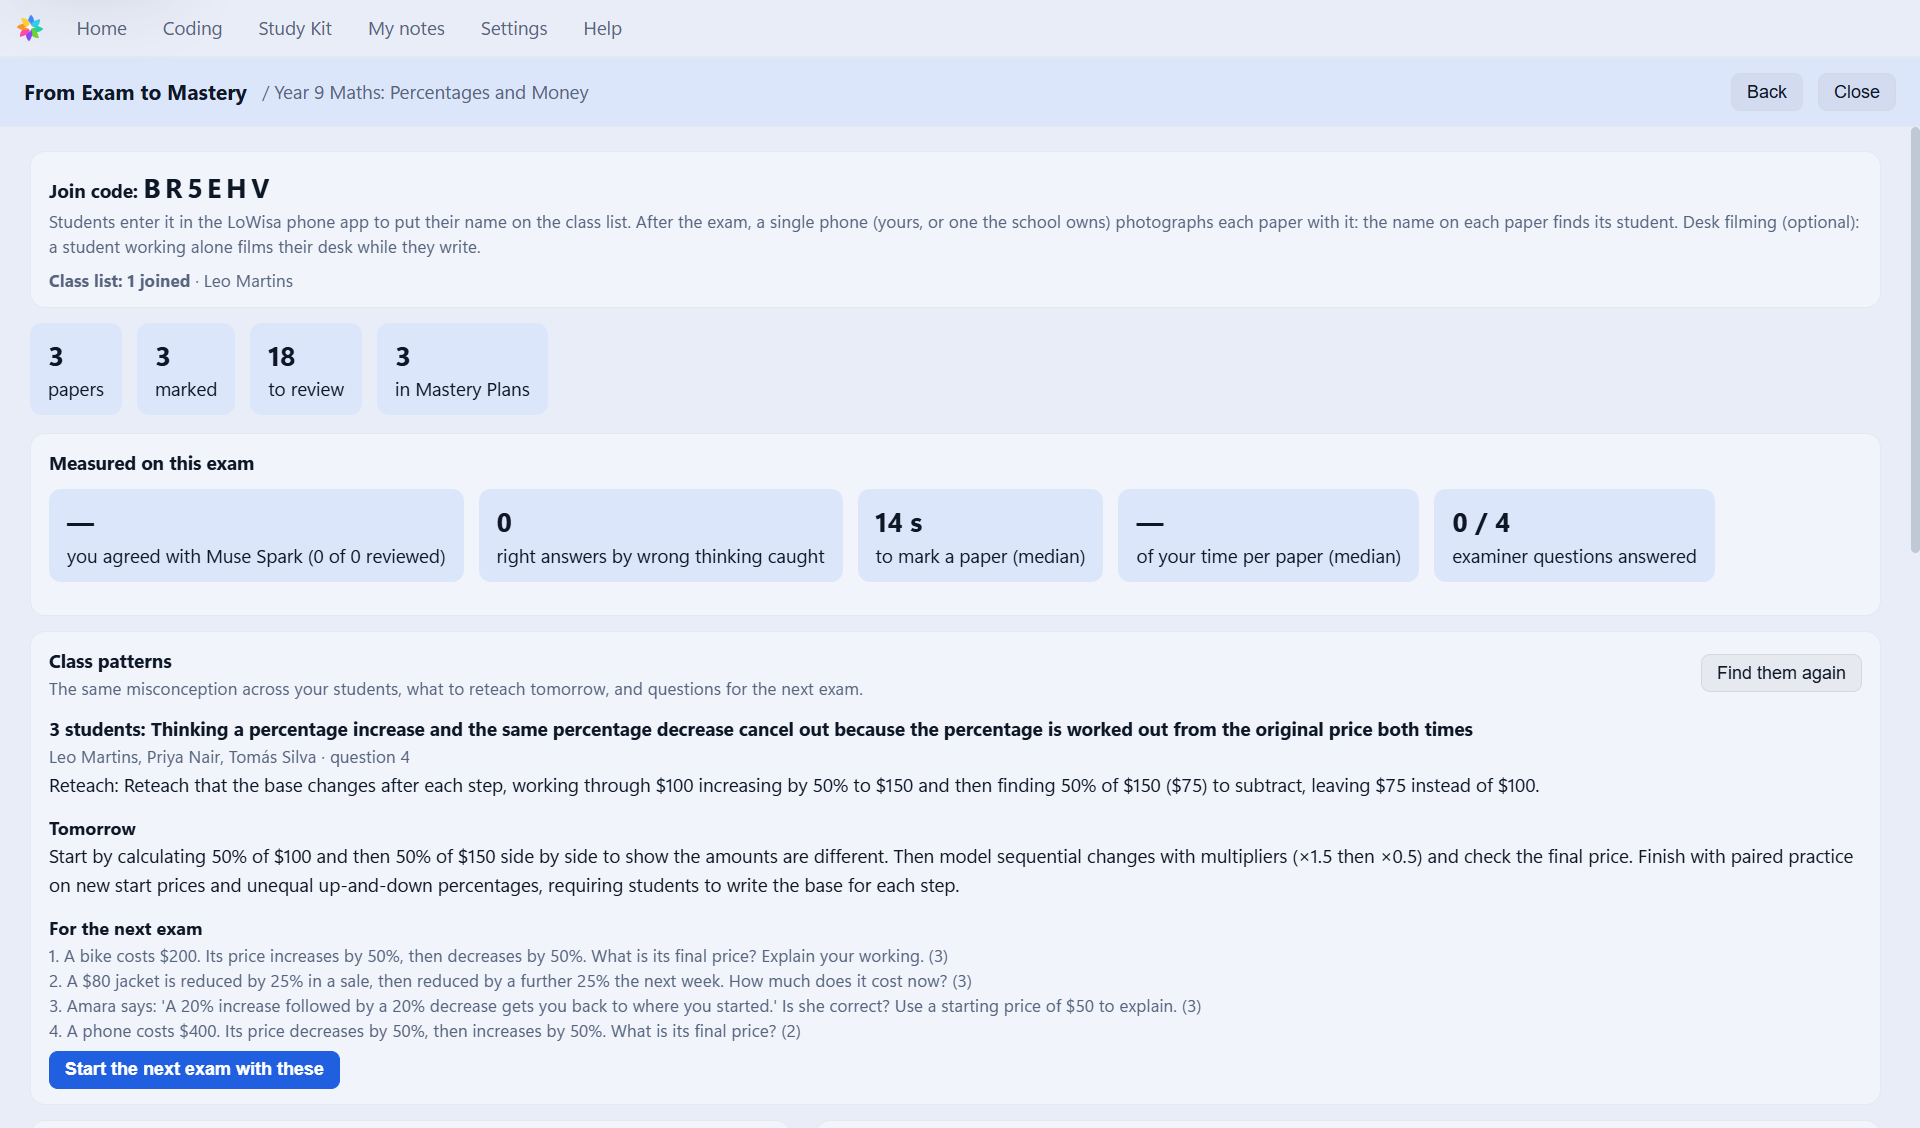
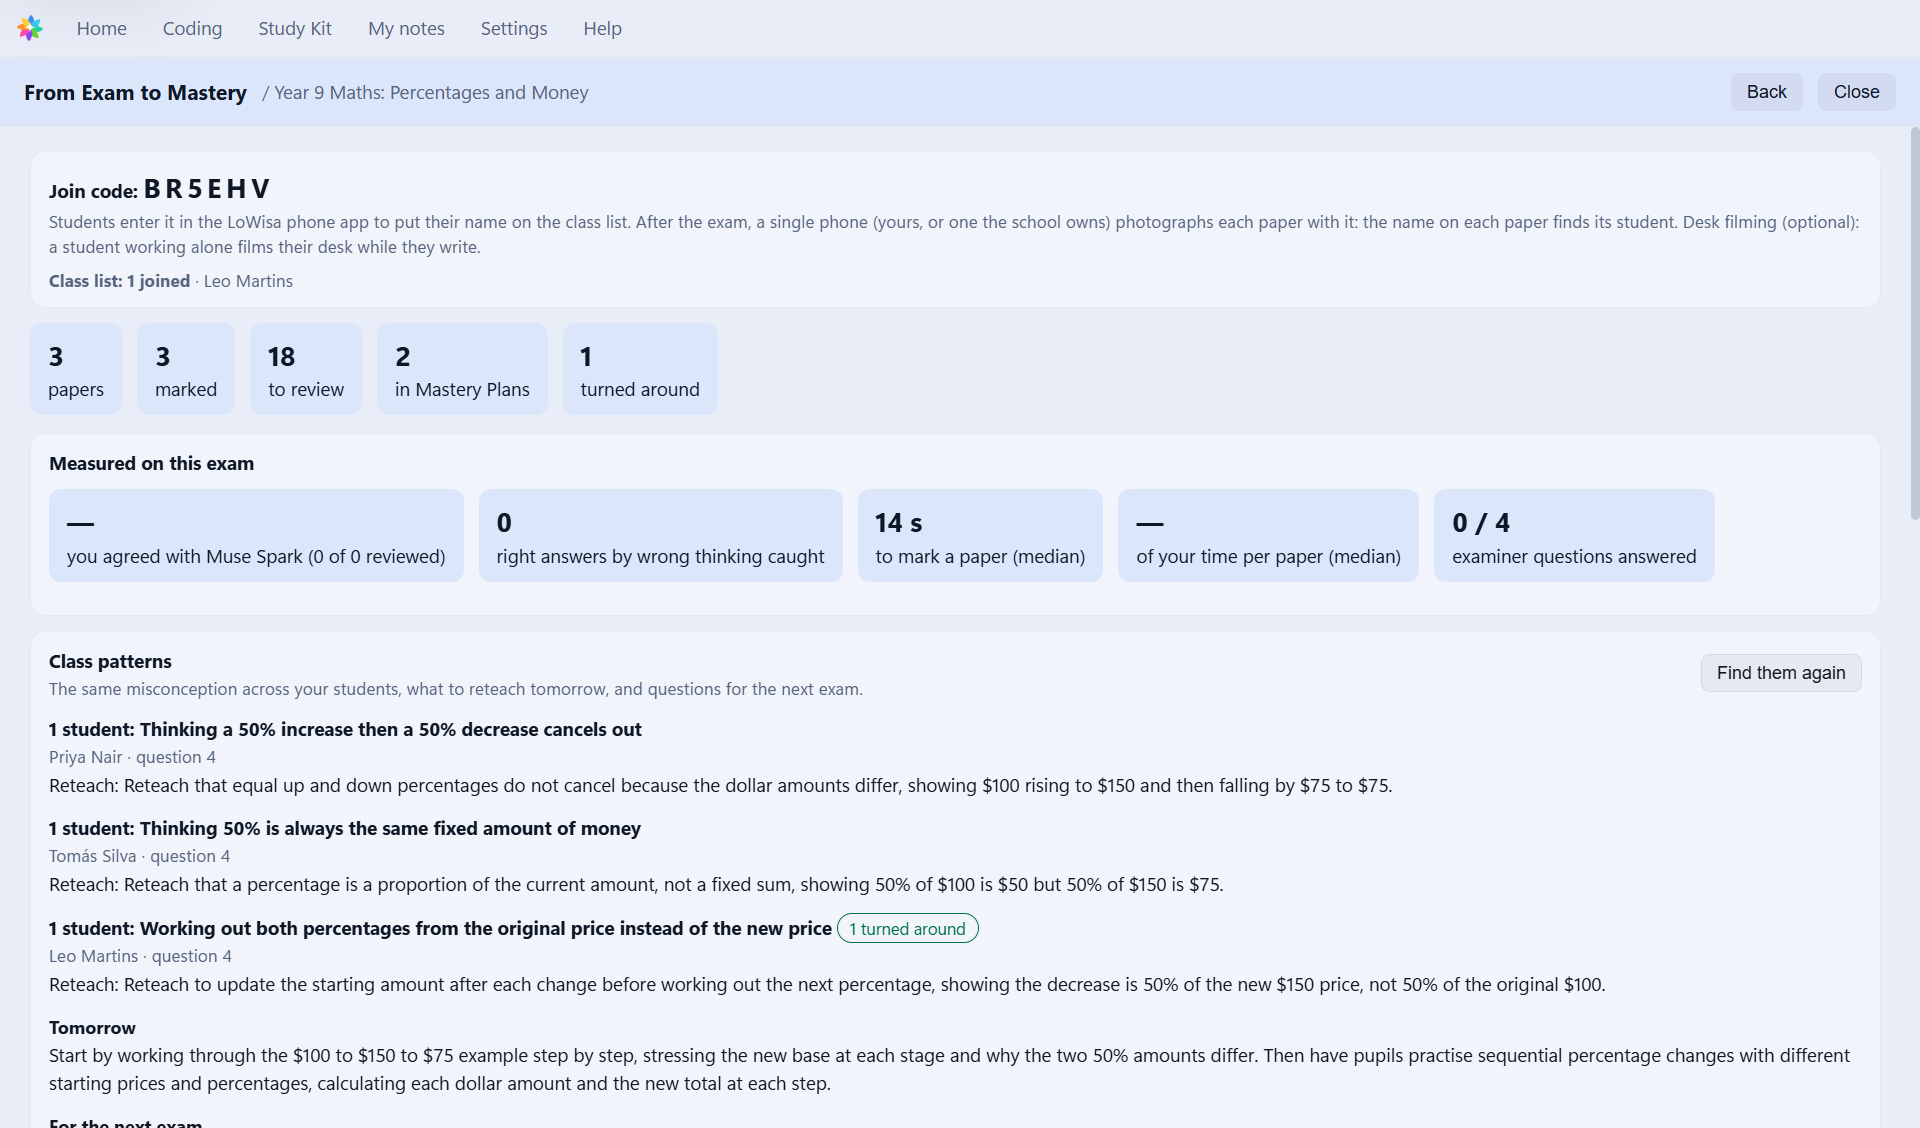
Class patterns evidence on the deployed edge: three reasons, three groups

Changed region(s): [[0.0, 0.6206, 0.9688, 1.0], [0.3125, 0.3413, 0.375, 0.3723], [0.9688, 0.4654, 1.0, 0.4965]]

diff --git a/harness/FINDINGS.md b/harness/FINDINGS.md
@@ -101,3 +101,14 @@ with "cancel"). Each was checked against the code before anything changed.
 - Also from the panel, in the server: preview on by default and a level its self-check did not pass always waits for
   the teacher; "completed" needs each lesson seen; delete routes for a paper and an exam; a ceiling on a
   teacher-paid level's design calls; a paper read again before a slow step writes back.
+
+## 30 Oct, the full live rehearsal
+
+- **Class patterns grouped by the answer, not the reasoning.** Priya (they cancel), Tomás (50% as a fixed $50) and Leo
+  (kept the first base) all wrote $100 and came back as one group, the opposite of what the fingerprint shows. Each
+  line now carries the fingerprint's named idea, and the prompt keeps different reasoning apart. Live against Muse
+  Wonder: three groups in 3 of 3 runs, then on the deployed edge (`evidence/screens/desk-class-patterns.png`).
+- **The self-check passed a false claim** (a shop "loses $25" by charging $100 for a $75 price). It now works out every
+  number and every gain or loss claim (`true_claims` in `witness_check.erl`). The questions written inside each lesson
+  as it opens are still not checked one by one (README, limits).
+- **The settled diagnosis carried the model's notes on its evidence.** It is now the named idea alone.
